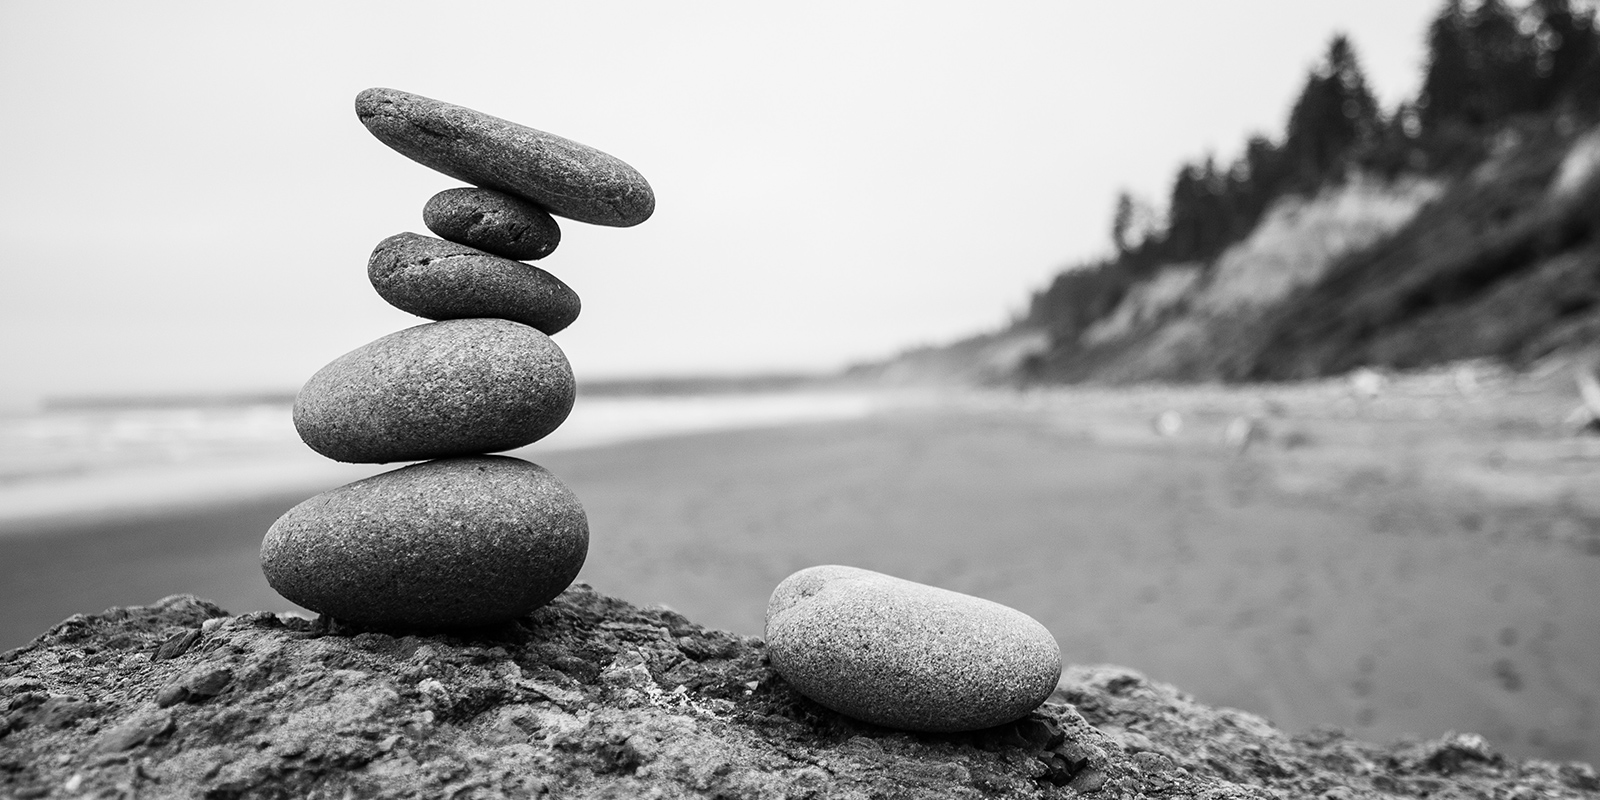
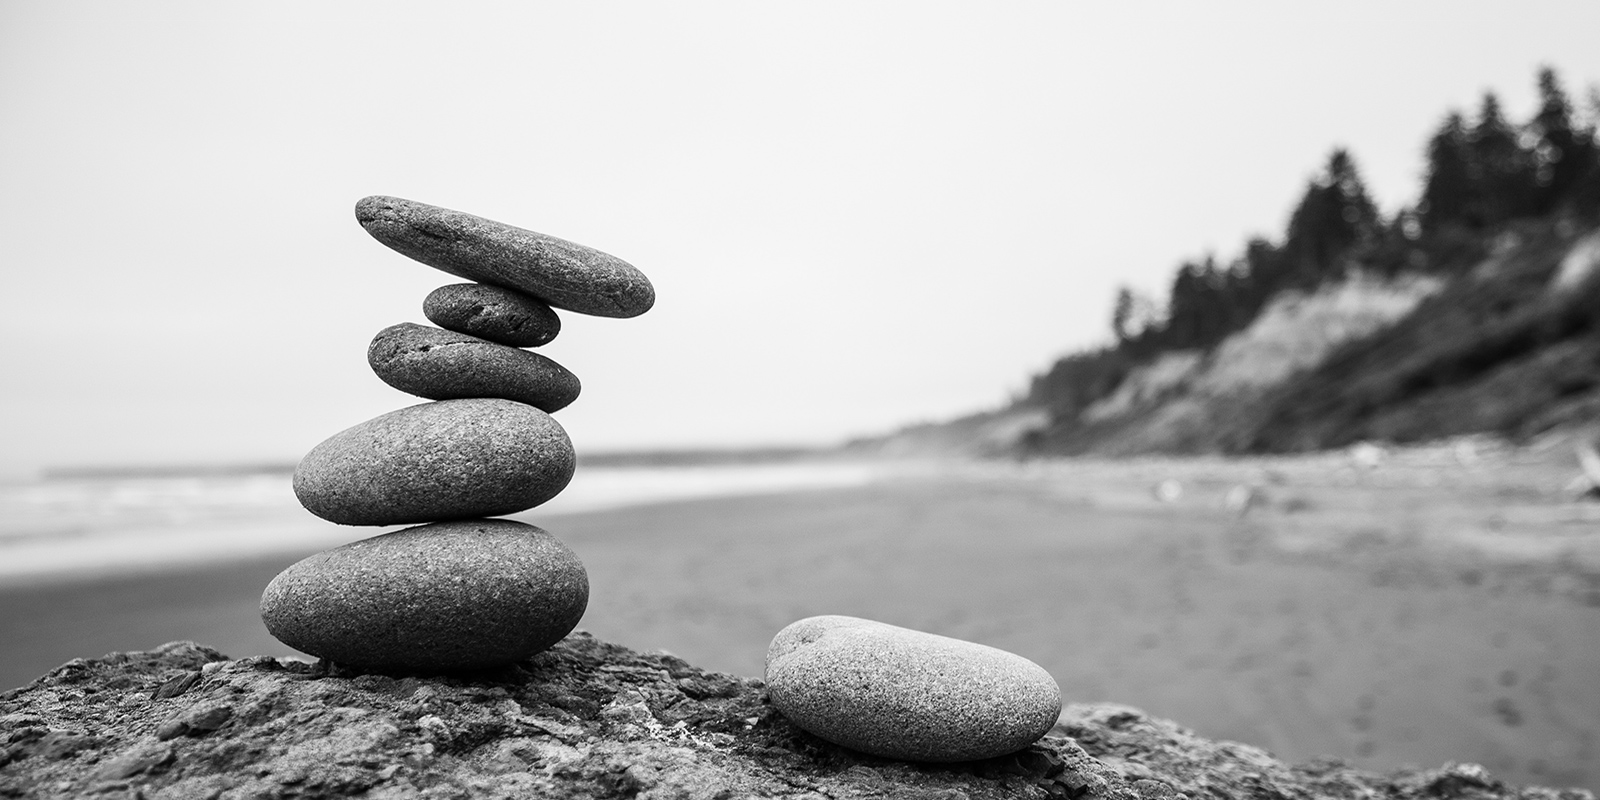
Address review feedback and update hero image

diff --git a/src/site/content/en/blog/layout-instability-api/index.md b/src/site/content/en/blog/layout-instability-api/index.md
@@ -7,7 +7,7 @@ date: 2019-06-11
 hero: hero.jpg
 # You can adjust the position of your hero image with this property.
 # Values: top | bottom | center (default)
-# hero_position: bottom
+hero_position: bottom
 alt: An unstable stack of rocks on a beach
 description: |
   This post introduces the Layout Instability API, its key concepts, and
@@ -22,7 +22,7 @@ Have you ever been reading an article online when something suddenly changes on
 the page? Without warning, the text moves, and you've lost your place.
 
 Or even worse: you're about to tap a link or a button, but in the instant
-before your finger lands&mdash;BOOM!&mdash;the link moves, and you end up
+before your finger lands&mdash;**BOOM**&mdash;the link moves, and you end up
 clicking something else!
 
 Most of the time these kinds of experiences are just a mild annoyance or
@@ -70,7 +70,7 @@ viewport&mdash;is the **layout shift score** for the current frame.
 
 Here are a few examples of how the layout shift score is calculated:
 
-![Layout shift example #1](layout-shift-1.png)
+![Layout shift example with one unstable element](layout-shift-1.png)
 
 In the image above there's an element that takes up half of the viewport in one
 frame. Then, in the next frame, the element shifts down by 25% of the viewport
@@ -81,7 +81,8 @@ layout shift score is 0.75.
 The next example illustrates how adding content to an existing element affects
 the layout shift score:
 
-![Layout shift example #2](layout-shift-2.png)
+![Layout shift example with stable and unstable elements and viewport
+clipping](layout-shift-2.png)
 
 Here the "Click Me!" button is appended to the bottom of the gray box with
 black text, which pushes the green box with white text down (and partially out
@@ -97,7 +98,8 @@ shift score is therefore 0.5 (as illustrated by the red, dotted rectangle).
 
 This last example illustrates multiple unstable elements:
 
-![Layout shift example #3](layout-shift-3.png)
+![Layout shift example with multiple stable and unstable
+elements](layout-shift-3.png)
 
 In the first frame above we have the initial results of an API request for
 animals, sorted in alphabetical order. In the second frame we have some more
